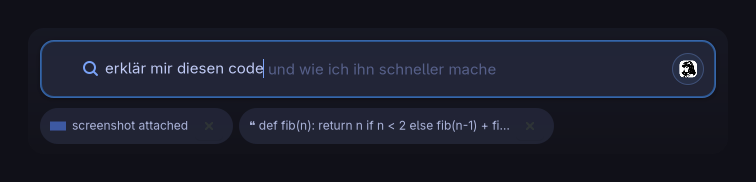
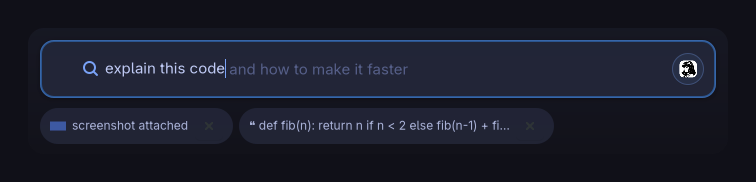
fix: weather card reminder in the user turn + English screenshots
glm-class models skipped the card format at the end of the long system
prompt. Weather-like questions now carry a one-line reminder in the
message itself (and the model is told not to mention the card).
README screenshots are English to match the rest of the docs.

Changed region(s): [[0.1521, 0.3297, 0.6693, 0.4121]]

diff --git a/hermes-spotlight.py b/hermes-spotlight.py
@@ -924,6 +924,20 @@ WEATHER_ICONS = {"sun": "☀", "clear": "☀", "partly": "🌤", "cloud
                  "fog": "🌫", "showers": "🌦", "rain": "🌧", "storm": "⛈",
                  "snow": "🌨", "wind": "💨"}
 
+# Models skim past the end of a long system prompt, so weather questions
+# also carry a one-line reminder in the user turn itself.
+_WEATHER_Q = re.compile(
+    r"wetter|weather|forecast|vorhersage|prognose|regn|rain|schnee|snow|"
+    r"temperatur|gewitter|thunder|sonnig|sunny|bewölkt|cloudy", re.I)
+CARD_REMINDER = ("\n\n(Spotlight: end your answer with the weather "
+                 "```card block from the system message; do not mention "
+                 "the card in your text.)")
+
+
+def with_card_reminder(question: str) -> str:
+    return question + CARD_REMINDER if _WEATHER_Q.search(question) else question
+
+
 _CARD_RE = re.compile(r"```card[ \t]*\n?.*?```[ \t]*\n?", re.S)
 
 
@@ -2033,6 +2047,8 @@ class Spotlight(Gtk.ApplicationWindow):
         question = text or ("What is on this screenshot?" if image
                             else "Explain this.")
         message = _with_selection(question, sel) if sel else question
+        if self.cfg.get("cards", True):
+            message = with_card_reminder(message)
         if sel:
             self._sel_seen = sel
         self.entry.set_text("")

diff --git a/tests/ui_features.py b/tests/ui_features.py
@@ -306,6 +306,9 @@ def steps(win, app):
     yield from until(lambda: got, 2)
     ok(got and "card" not in got[0] and got[0].endswith("Mehr Text"),
        "copy-answer leaves the card JSON out")
+    ok(m.with_card_reminder("wie wird das Wetter morgen?").endswith(m.CARD_REMINDER)
+       and m.with_card_reminder("erklär mir python") == "erklär mir python",
+       "weather questions carry the card reminder, others don't")
     ok(sysmsgs and "```card" in sysmsgs[-1] and '"type": "weather"' in sysmsgs[-1],
        "card format is sent to the agent in the system message")
 

diff --git a/README.md b/README.md
@@ -114,7 +114,7 @@ Config lives in `~/.config/hermes-spotlight/config.json` (auto-created):
 - `notify`: desktop notification when an answer finishes while the bar is hidden
 - `ghost_suggestions`: grey completion from your own question history
 - `cards`: ask Hermes for native cards (weather) — adds a short format note
-  to the system message
+  to the system message and a one-line reminder to weather questions
 - `debug`: `true` logs clipboard/selection/focus events to
   `~/.cache/hermes-spotlight/debug.log` (for desktop-specific issues)
 - No config needed for the default setup — it just works.
